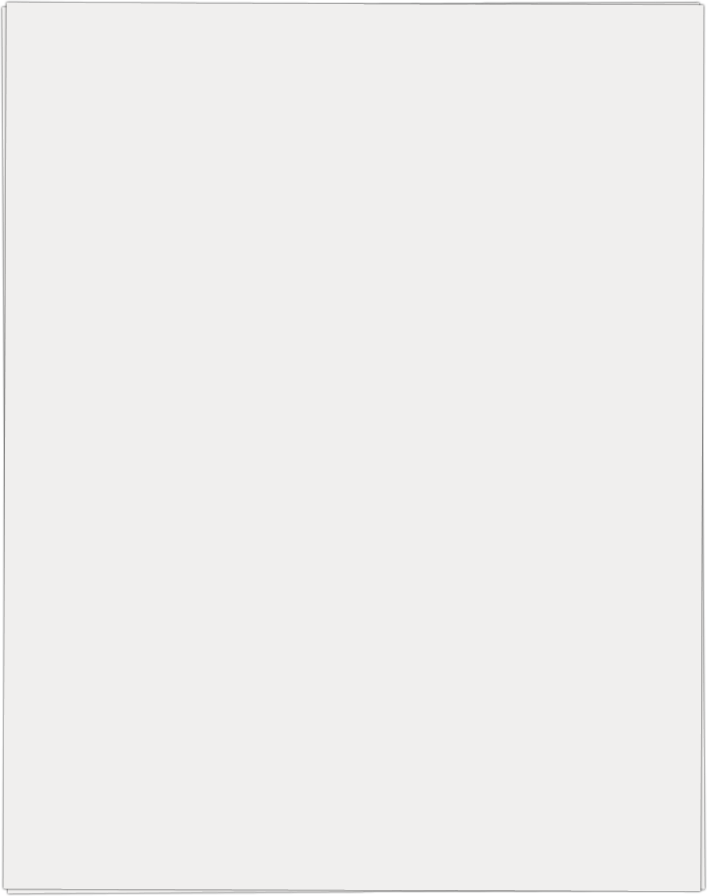
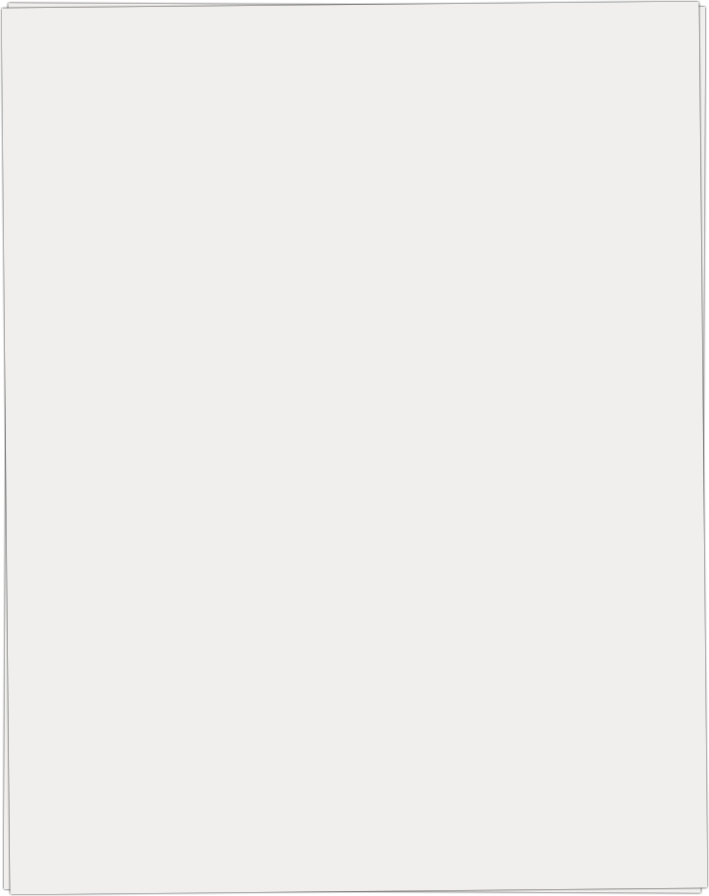
fixed papers and painting tools

diff --git a/Classes/RootViewController.m b/Classes/RootViewController.m
@@ -23,13 +23,13 @@
 #import "PageControlWithMenu.h"
 #import "ResolutionManaged.h"
 
-#define LEFT_CONTENT_MARGIN 5.0f
-#define RIGHT_CONTENT_MARGIN 5.0f
+#define LEFT_CONTENT_MARGIN 6.0f
+#define RIGHT_CONTENT_MARGIN 6.0f
 
 #define TOP_CONTENT_MARGIN 5.0f
 #define BOTTOM_CONTENT_MARGIN 10.0f
 
-#define PAINTING_TOOLS_LEFT_OFFSET 2
+#define PAINTING_TOOLS_LEFT_OFFSET 3
 #define PAINTING_TOOLS_TOP_OFFSET 33
 
 static NSString* ArchiveAnimationId = @"ArchiveAnimationId";
@@ -107,8 +107,9 @@ static NSString* AttachmentContext    = @"AttachmentContext";
 
     //clipper
     clipperViewController = [[ClipperViewController alloc] init];
-    CGSize clipperSize = clipperViewController.view.frame.size;
-    CGRect clipperFrame = CGRectMake((viewBounds.size.width-clipperSize.width)/2, 0,clipperSize.width, clipperSize.height);
+    CGRect clipperFrame = clipperViewController.view.frame;
+    clipperFrame.origin.x = (viewBounds.size.width - clipperFrame.size.width)/2;
+    clipperFrame.origin.y = 0;
     clipperViewController.view.frame = clipperFrame;
     clipperViewController.view.autoresizingMask = (UIViewAutoresizingFlexibleLeftMargin | UIViewAutoresizingFlexibleRightMargin);
     
@@ -120,9 +121,9 @@ static NSString* AttachmentContext    = @"AttachmentContext";
     contentHeightOffset = toolbarFrame.origin.y+toolbarFrame.size.height+[clipperViewController contentOffset];
 
     //contentView
-    contentView = [[RotateableImageView alloc] initWithImage: [UIImage imageNamed: @"Papers.png"]];
-    contentView.portraitImage = [UIImage imageNamed: @"Papers.png"];
-    contentView.landscapeImage = [UIImage imageNamed: @"Papers-Landscape.png"];
+    contentView = [[RotateableImageView alloc] initWithImage: [UIImage imageNamed: @"Paper.png"]];
+    contentView.portraitImage = [UIImage imageNamed: @"Paper.png"];
+    contentView.landscapeImage = [UIImage imageNamed: @"Paper-Landscape.png"];
     contentView.autoresizingMask = (UIViewAutoresizingFlexibleWidth |
                                     UIViewAutoresizingFlexibleHeight);
     
@@ -179,12 +180,12 @@ static NSString* AttachmentContext    = @"AttachmentContext";
                                     context:&AttachmentContext];
 
     paintingToolsViewController = [[PaintingToolsViewController alloc] init];
-    CGSize paintingSize = paintingToolsViewController.view.frame.size;
-    CGFloat paintingToolsOffsetFromLeftEdge = paintingSize.width - contentView.frame.origin.x+PAINTING_TOOLS_LEFT_OFFSET;
-    paintingToolsOffsetFromLeftEdge = paintingToolsOffsetFromLeftEdge<0?0:paintingToolsOffsetFromLeftEdge;
-    CGRect paintingToolsFrame = CGRectMake(contentView.frame.origin.x-paintingSize.width+paintingToolsOffsetFromLeftEdge, contentHeightOffset+PAINTING_TOOLS_TOP_OFFSET, paintingSize.width, paintingSize.height);
+    CGRect paintingToolsFrame = paintingToolsViewController.view.frame;
+    CGFloat paintingToolsOffsetFromLeftEdge = paintingToolsFrame.size.width - contentView.frame.origin.x+PAINTING_TOOLS_LEFT_OFFSET;
+    paintingToolsFrame.origin.x = contentView.frame.origin.x-paintingToolsFrame.size.width+paintingToolsOffsetFromLeftEdge;
+    paintingToolsFrame.origin.y = contentHeightOffset+PAINTING_TOOLS_TOP_OFFSET;
     paintingToolsViewController.view.frame = paintingToolsFrame;
-
+    
     paintingToolsViewController.delegate = attachmentsViewController;
 
     resolutionButton = [UIButton buttonWithBackgroundAndTitle:NSLocalizedString(@"Resolution", "Resolution")
@@ -201,8 +202,9 @@ static NSString* AttachmentContext    = @"AttachmentContext";
     [resolutionButton setTitleShadowColor:[UIColor colorWithRed:0 green:0 blue:0 alpha:.5] forState:UIControlStateNormal];
     resolutionButton.titleLabel.shadowOffset = CGSizeMake(0.0, -1.0);
 
-    CGSize resolutionButtonSize = resolutionButton.frame.size;
-    CGRect resolutionButtonFrame = CGRectMake(contentView.frame.origin.x, contentHeightOffset - resolutionButtonSize.height, resolutionButtonSize.width, resolutionButtonSize.height);
+    CGRect resolutionButtonFrame = resolutionButton.frame;
+    resolutionButtonFrame.origin.x = contentView.frame.origin.x;
+    resolutionButtonFrame.origin.y = contentHeightOffset - resolutionButtonFrame.size.height;
     resolutionButton.frame = resolutionButtonFrame;
     resolutionButton.autoresizingMask = UIViewAutoresizingFlexibleRightMargin;
     [resolutionButton retain];
@@ -223,15 +225,17 @@ static NSString* AttachmentContext    = @"AttachmentContext";
     infoButton.titleLabel.shadowOffset = CGSizeMake(0.0, -1.0);
 
     
-    CGSize infoButtonSize = infoButton.frame.size;
-    CGRect infoButtonFrame = CGRectMake(contentView.frame.origin.x + contentView.frame.size.width - infoButtonSize.width, contentHeightOffset - infoButtonSize.height, infoButtonSize.width, infoButtonSize.height);
+    CGRect infoButtonFrame = infoButton.frame;
+    infoButtonFrame.origin.x = contentView.frame.origin.x + contentView.frame.size.width - infoButtonFrame.size.width;
+    infoButtonFrame.origin.y = contentHeightOffset - infoButtonFrame.size.height;
     infoButton.frame = infoButtonFrame;
     infoButton.autoresizingMask = UIViewAutoresizingFlexibleLeftMargin;
     [infoButton retain];
     
     resolutionViewController = [[ResolutionViewController alloc] init];
-    CGSize resolutionSize = resolutionViewController.view.frame.size;
-    CGRect resolutionFrame = CGRectMake((contentView.frame.size.width-resolutionSize.width)/2, 0, resolutionSize.width, resolutionSize.height);
+    CGRect resolutionFrame = resolutionViewController.view.frame;
+    resolutionFrame.origin.x = (contentView.frame.size.width-resolutionFrame.size.width)/2;
+    resolutionFrame.origin.y = 0;
     resolutionViewController.view.frame = resolutionFrame;
     resolutionViewController.view.hidden = YES;
     resolutionViewController.view.autoresizingMask = (UIViewAutoresizingFlexibleRightMargin | UIViewAutoresizingFlexibleLeftMargin);
@@ -239,8 +243,22 @@ static NSString* AttachmentContext    = @"AttachmentContext";
     [contentView addSubview: documentInfoViewController.view];
     [contentView addSubview: attachmentsViewController.view];
 
+    //paper
+    RotateableImageView *paperView = [[RotateableImageView alloc] initWithImage:[UIImage imageNamed:@"Papers.png"]];
+    paperView.portraitImage = [UIImage imageNamed: @"Papers.png"];
+    paperView.landscapeImage = [UIImage imageNamed: @"Papers-Landscape.png"];
+    paperView.autoresizingMask = (UIViewAutoresizingFlexibleWidth |
+                                  UIViewAutoresizingFlexibleHeight);
+
+    paperView.frame = contentView.frame;
+    paperView.userInteractionEnabled = YES;
+    [self.view addSubview: paperView];
+    [paperView release];
+
     [self.view addSubview:paintingToolsViewController.view];
     [self.view addSubview:contentView];
+
+
     [contentView addSubview: resolutionViewController.view];
     [self.view addSubview:clipperViewController.view];
     [self.view addSubview:infoButton];
